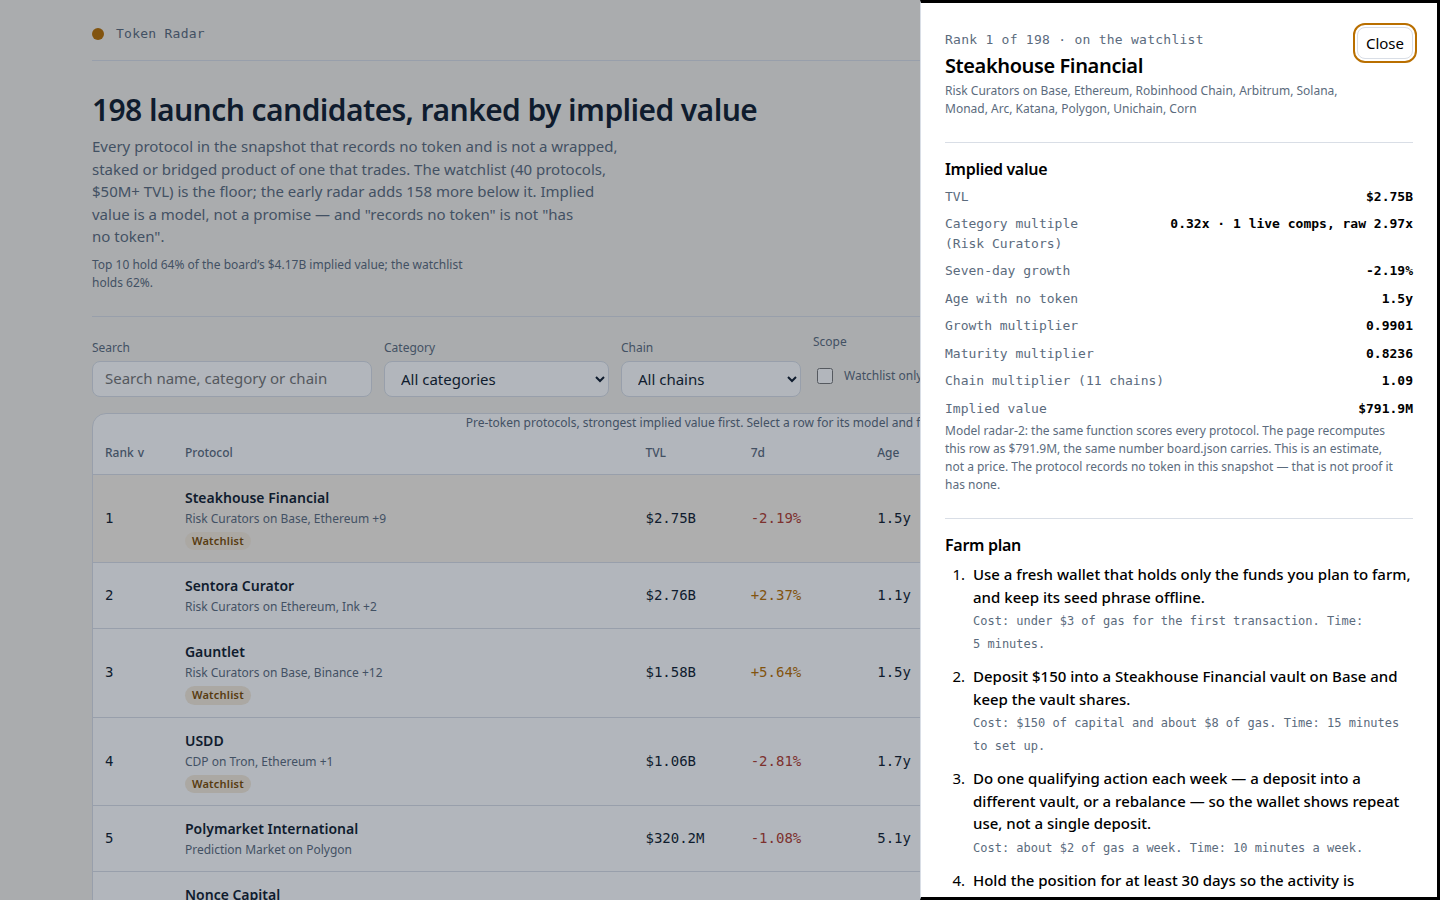
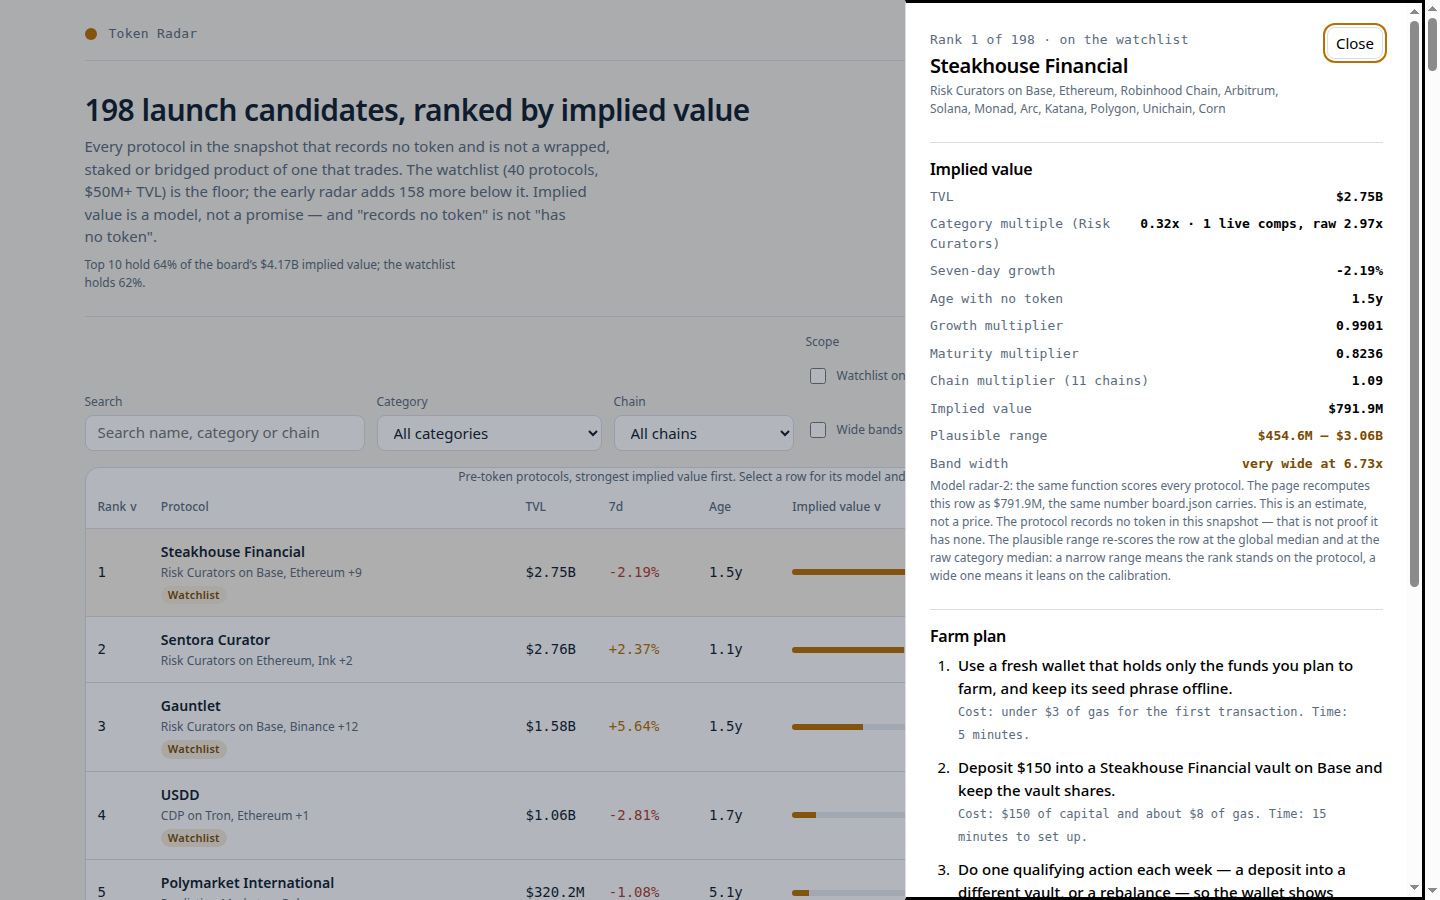
Token Radar: plausible range per row, band labels, wide-only filter
Every row now carries a plausible range (re-scored at the global
median and the raw category median) with a narrow/wide/very-wide
label, a wide-bands-only filter, and a band-width row in the detail
view; the Model tab and the run summary count the bands (102 wide,
85 very wide of 198). Board total unchanged at $4,168,472,068.
Screenshots retaken showing the Range column. Referral code is
@febridewa's 6etrfz79.

diff --git a/dashboard/app.js b/dashboard/app.js
@@ -8,7 +8,7 @@
   var DATA = window.RADAR;
   if (!DATA) return;
   var app = document.getElementById('board');
-  var state = { q: '', category: 'all', chain: 'all', watchlistOnly: false, tab: 'pre-token', sort: 'implied', dir: -1, selected: null, sandbox: null };
+  var state = { q: '', category: 'all', chain: 'all', watchlistOnly: false, wideOnly: false, tab: 'pre-token', sort: 'implied', dir: -1, selected: null, sandbox: null };
 
   var usd = new Intl.NumberFormat('en-US', { style: 'currency', currency: 'USD', maximumFractionDigits: 0 });
   function fmtUsd(n) {
@@ -138,6 +138,7 @@
     var params = new URLSearchParams(hash);
     if (params.get('q')) state.q = params.get('q');
     if (params.get('p')) state.selected = params.get('p');
+    if (params.get('wide')) state.wideOnly = params.get('wide') === '1';
     if (params.get('category')) state.category = params.get('category');
     if (params.get('chain')) state.chain = params.get('chain');
     if (params.get('wl')) state.watchlistOnly = params.get('wl') === '1';
@@ -151,6 +152,7 @@
     if (state.watchlistOnly) params.set('wl', '1');
     if (state.tab !== 'pre-token') params.set('tab', state.tab);
     if (state.selected) params.set('p', state.selected);
+    if (state.wideOnly) params.set('wide', '1');
     var next = params.toString();
     if (next) window.history.replaceState(null, '', '#' + next);
     else window.history.replaceState(null, '', window.location.pathname + window.location.search);
@@ -162,6 +164,7 @@
       if (state.category !== 'all' && r.category !== state.category) return false;
       if (state.chain !== 'all' && !(r.chains || []).includes(state.chain)) return false;
       if (state.watchlistOnly && !r.on_watchlist) return false;
+      if (state.wideOnly && r.value_band_ratio < 2) return false;
       if (!q) return true;
       var hay = [r.name, r.slug, r.category, (r.chains || []).join(' ')].join(' ').toLowerCase();
       return hay.indexOf(q) >= 0;
@@ -175,6 +178,7 @@
       else if (key === 'tvl') { av = a.tvl_usd; bv = b.tvl_usd; }
       else if (key === 'growth') { av = a.change_7d === null ? -Infinity : a.change_7d; bv = b.change_7d === null ? -Infinity : b.change_7d; }
       else if (key === 'age') { av = a.age_days === null ? Infinity : a.age_days; bv = b.age_days === null ? Infinity : b.age_days; }
+      else if (key === 'range') { av = a.value_band_ratio; bv = b.value_band_ratio; }
       else { av = shownValue(a); bv = shownValue(b); }
       if (av < bv) return -state.dir;
       if (av > bv) return state.dir;
@@ -212,7 +216,8 @@
         el('div', { class: 'fact' }, el('span', { text: 'Launch candidates scored' }), el('b', { text: String(DATA.board_size) })),
         el('div', { class: 'fact' }, el('span', { text: 'Board implied value' }), el('b', { text: fmtUsd(DATA.board_implied_total_usd) })),
         el('div', { class: 'fact' }, el('span', { text: 'Global median mcap / TVL' }), el('b', { text: fmtMult(DATA.calibration.global_median) + ' (' + DATA.calibration.live_comps + ' live comps)' })),
-        el('div', { class: 'fact' }, el('span', { text: 'Live-token protocols set aside' }), el('b', { text: String(DATA.live_size) }))
+        el('div', { class: 'fact' }, el('span', { text: 'Live-token protocols set aside' }), el('b', { text: String(DATA.live_size) })),
+        el('div', { class: 'fact' }, el('span', { text: 'Very wide bands (4x or more)' }), el('b', { text: String(DATA.very_wide_band_rows) }))
       )
     );
   }
@@ -237,6 +242,11 @@
       'Watchlist only'
     );
     wl.querySelector('input').addEventListener('change', function (e) { state.watchlistOnly = e.target.checked; writeHash(); render(); });
+    var wide = el('label', { class: 'check' },
+      el('input', { type: 'checkbox', checked: state.wideOnly ? 'checked' : null, 'aria-label': 'Wide bands only' }),
+      'Wide bands only'
+    );
+    wide.querySelector('input').addEventListener('change', function (e) { state.wideOnly = e.target.checked; writeHash(); render(); });
     function tabBtn(tab, label) {
       return el('button', { type: 'button', 'aria-pressed': state.tab === tab ? 'true' : 'false', text: label, onclick: function () { state.tab = tab; writeHash(); render(); } });
     }
@@ -245,7 +255,7 @@
       el('div', { class: 'field' }, el('label', { for: 'q', text: 'Search' }), search),
       el('div', { class: 'field' }, el('label', { for: 'category', text: 'Category' }), select),
       el('div', { class: 'field' }, el('label', { for: 'chain', text: 'Chain' }), chainSel),
-      el('div', { class: 'field' }, el('span', { class: 'sub', text: 'Scope' }), wl),
+      el('div', { class: 'field' }, el('span', { class: 'sub', text: 'Scope' }), wl, wide),
       el('div', { class: 'field' }, el('span', { class: 'sub', text: 'View' }), el('div', { class: 'tabs' }, tabBtn('pre-token', 'Pre-token'), tabBtn('live', 'Live token'), tabBtn('model', 'Model'))),
       el('span', { class: 'count', text: countText })
     );
@@ -295,6 +305,7 @@
           el('div', { class: 'bar', 'aria-hidden': 'true' }, el('i', { style: 'width:' + Math.max(3, Math.round((shownValue(r) / max) * 100)) + '%' })),
           el('span', { class: 'num', text: fmtUsd(shownValue(r)) })
         )),
+        el('td', { class: 'num band-' + r.value_band_label.replace(' ', '-'), text: fmtUsd(r.value_low_usd) + ' – ' + fmtUsd(r.value_high_usd) + ' · ' + r.value_band_label }),
         el('td', null, el('span', { class: 'status', text: 'no token' }))
       );
       tbody.appendChild(tr);
@@ -311,6 +322,7 @@
             sortHeader('growth', '7d'),
             sortHeader('age', 'Age'),
             sortHeader('implied', 'Implied value'),
+            sortHeader('range', 'Range'),
             el('th', { scope: 'col', text: 'Token' })
           )),
           tbody
@@ -375,7 +387,9 @@
         el('div', { class: 'formula' },
           'implied = round( tvl_usd x category_multiple x (1 + clamp(change_7d, ' + m.growth_floor + ', ' + m.growth_cap + ') / 100 x ' + m.growth_weight + ') x (' + m.maturity_floor + ' + min(age_days, ' + m.maturity_days + ') / ' + m.maturity_days + ' x ' + m.maturity_range + ') x (1 + ' + m.chain_step + ' x min(chains - 1, ' + m.chain_cap + ')) )'
         ),
-        el('p', { class: 'sub', text: 'TVL and seven-day growth come from the snapshot. Age is the time since the protocol was first listed, the best record of how long it has run with no token; an unlisted age uses ' + m.unknown_age_days + ' days. The category multiple is calibrated from the ' + cal.live_comps + ' live-token protocols in this snapshot (table below), shrunk toward the global median of ' + fmtMult(cal.global_median) + ' so thin categories stay honest. The early radar is every pre-token protocol below the watchlist floor that passes the house rule, and the live-token protocols are set aside with their market caps shown.' })
+        el('p', { class: 'sub', text: 'TVL and seven-day growth come from the snapshot. Age is the time since the protocol was first listed, the best record of how long it has run with no token; an unlisted age uses ' + m.unknown_age_days + ' days. The category multiple is calibrated from the ' + cal.live_comps + ' live-token protocols in this snapshot (table below), shrunk toward the global median of ' + fmtMult(cal.global_median) + ' so thin categories stay honest. The early radar is every pre-token protocol below the watchlist floor that passes the house rule, and the live-token protocols are set aside with their market caps shown.' }),
+        el('p', { class: 'sub', text: 'The plausible range on every row re-scores it at the global median and at the raw category median, so a wide range is a warning that the rank leans on the calibration. Sort the board by Range to find the rows whose headline depends on it most.' }),
+        el('p', { class: 'sub', text: 'Labels on the board say how far each band stretches: ' + DATA.wide_band_rows + ' rows are wide (2x or more) and ' + DATA.very_wide_band_rows + ' of those are very wide (4x or more), where the headline is mostly calibration.' })
       ),
       el('section', { class: 'panel model' },
         el('h2', { text: 'Model sandbox — change the weights, watch the board move' }),
@@ -430,9 +444,11 @@
         el('div', null, el('span', { text: 'Growth multiplier' }), el('b', { class: 'num', text: String(row.growth_multiplier) })),
         el('div', null, el('span', { text: 'Maturity multiplier' }), el('b', { class: 'num', text: String(row.maturity_multiplier) })),
         el('div', null, el('span', { text: 'Chain multiplier (' + (row.chains ? row.chains.length : 0) + ' chains)' }), el('b', { class: 'num', text: String(row.chain_multiplier) })),
-        el('div', null, el('span', { text: 'Implied value' }), el('b', { class: 'num', text: fmtUsd(row.implied_value_usd) }))
+        el('div', null, el('span', { text: 'Implied value' }), el('b', { class: 'num', text: fmtUsd(row.implied_value_usd) })),
+        el('div', { class: 'band' }, el('span', { text: 'Plausible range' }), el('b', { class: 'num', text: fmtUsd(row.value_low_usd) + ' – ' + fmtUsd(row.value_high_usd) })),
+        el('div', { class: 'band' }, el('span', { text: 'Band width' }), el('b', { class: 'num', text: row.value_band_label + ' at ' + row.value_band_ratio + 'x' }))
       ),
-      el('p', { class: 'sub', text: 'Model ' + DATA.model_version + ': the same function scores every protocol. The page recomputes this row as ' + fmtUsd(recomputed) + (recomputed === row.implied_value_usd ? ', the same number board.json carries.' : ', which differs from the board: the data would be stale.') + ' This is an estimate, not a price. The protocol records no token in this snapshot — that is not proof it has none.' })
+      el('p', { class: 'sub', text: 'Model ' + DATA.model_version + ': the same function scores every protocol. The page recomputes this row as ' + fmtUsd(recomputed) + (recomputed === row.implied_value_usd ? ', the same number board.json carries.' : ', which differs from the board: the data would be stale.') + ' This is an estimate, not a price. The protocol records no token in this snapshot — that is not proof it has none. The plausible range re-scores the row at the global median and at the raw category median: a narrow range means the rank stands on the protocol, a wide one means it leans on the calibration.' })
     ));
     dialog.appendChild(el('section', { class: 'detail-section' },
       el('h3', { text: 'Farm plan' }),

diff --git a/lib/model.ts b/lib/model.ts
@@ -35,6 +35,17 @@
 // nothing per TVL dollar — so the giant allocators (Veda, Upshift) rank far below their TVL rank,
 // while Risk Curators (one live comp, shrunk to 0.32x) top the board on scale. That is the data
 // speaking, and the dashboard shows the whole multiples table with each category's comp count.
+//
+// THE PLAUSIBLE RANGE
+// The headline number leans on the category multiple, and for a thin category that multiple is
+// mostly the global median wearing the category's name. So every row also carries the value it
+// would get at the two ends of the calibration: the global median on one side and the category's
+// raw median on the other, both run through the same growth, maturity and chain terms. A narrow
+// band means the rank stands on the protocol's own record; a wide band means it stands on the
+// calibration, and the dashboard shows the band beside the headline so the reader can see which.
+// The band is a re-scaling of the headline, not a second model: the headline times the global
+// median over the category multiple, and the headline times the raw median over the category
+// multiple, each clamped to the multiples the shipped model allows.
 
 /** The snapshot's protocol entry: exactly the ten fields the sealed input carries. */
 export interface SnapshotProtocol {
@@ -136,6 +147,11 @@ export interface BoardRow {
   on_watchlist: boolean;
   age_days: number | null;
   implied_value_usd: number;
+  value_range_usd: {
+    low_usd: number;
+    high_usd: number;
+    band_ratio: number;
+  };
   model: {
     category_multiple: number;
     growth_pct: number;
@@ -161,6 +177,10 @@ export interface RadarRow {
   age_days: number | null;
   on_watchlist: boolean;
   implied_value_usd: number;
+  value_low_usd: number;
+  value_high_usd: number;
+  value_band_ratio: number;
+  value_band_label: string;
   category_multiple: number;
   growth_multiplier: number;
   maturity_multiplier: number;
@@ -192,6 +212,8 @@ export interface RadarData {
   board_implied_total_usd: number;
   watchlist_implied_total_usd: number;
   top10_implied_total_usd: number;
+  wide_band_rows: number;
+  very_wide_band_rows: number;
   calibration: Calibration;
   rows: RadarRow[];
   live: LiveRow[];
@@ -276,7 +298,7 @@ export function impliedValue(
   asOf: string,
   model: ModelConstants,
   calibration: Calibration,
-): { implied: number; categoryMultiple: number; growthPct: number; growthMult: number; maturityMult: number; chainMult: number; age: number | null } {
+): { implied: number; low: number; high: number; categoryMultiple: number; growthPct: number; growthMult: number; maturityMult: number; chainMult: number; age: number | null } {
   const age = ageDays(asOf, protocol.listed_at);
   const rawGrowth = finite(protocol.change_7d, 0);
   const growthPct = Math.min(model.growth_cap, Math.max(model.growth_floor, rawGrowth));
@@ -286,7 +308,29 @@ export function impliedValue(
   const chainMult = 1 + model.chain_step * Math.min(Math.max(protocol.chains.length - 1, 0), model.chain_cap);
   const categoryMultiple = categoryMultipleFor(protocol, calibration);
   const implied = Math.max(1, Math.round(protocol.tvl_usd * categoryMultiple * growthMult * maturityMult * chainMult));
-  return { implied, categoryMultiple, growthPct, growthMult, maturityMult, chainMult, age };
+  // The band's ends: the headline re-scaled to the two ends of the calibration, the global
+  // median on one side and the category's raw median on the other, each clamped to the
+  // multiples the shipped model allows. The shrunk multiple sits between the two, so the
+  // headline always lands inside its own band.
+  let rawMultiple = calibration.global_median;
+  for (const entry of calibration.by_category) {
+    if (entry.category === (protocol.category ?? 'Other') && entry.raw_median !== null) rawMultiple = entry.raw_median;
+  }
+  const bandMultiple = Math.min(model.multiple_cap, Math.max(model.multiple_floor, rawMultiple));
+  const atGlobal = Math.max(1, Math.round((implied * calibration.global_median) / categoryMultiple));
+  const atRaw = Math.max(1, Math.round((implied * bandMultiple) / categoryMultiple));
+  const low = Math.min(atGlobal, atRaw);
+  const high = Math.max(atGlobal, atRaw);
+  return { implied, low, high, categoryMultiple, growthPct, growthMult, maturityMult, chainMult, age };
+}
+
+// A band's width, in words, so the dashboard can label every row with it and a reader can tell at
+// a glance whether the headline stands on the protocol or on the calibration. Fourfold or more
+// means the two ends of the calibration disagree so much that the headline is mostly a guess.
+export function bandLabel(bandRatio: number): 'narrow' | 'wide' | 'very wide' {
+  if (bandRatio >= 4) return 'very wide';
+  if (bandRatio >= 2) return 'wide';
+  return 'narrow';
 }
 
 /** DefiLlama's version-marker rule: a name ending in a release is a pool of another protocol. */
@@ -358,6 +402,7 @@ export function buildBoard(snapshot: Snapshot, model: ModelConstants = MODEL): B
     on_watchlist: watchlist.has(s.p.slug),
     age_days: s.age,
     implied_value_usd: s.implied,
+    value_range_usd: { low_usd: s.low, high_usd: s.high, band_ratio: Math.round((s.high / s.low) * 100) / 100 },
     model: {
       category_multiple: round4(s.categoryMultiple),
       growth_pct: s.growthPct,
@@ -516,6 +561,10 @@ export function radarRow(row: BoardRow): RadarRow {
     age_days: row.age_days,
     on_watchlist: row.on_watchlist,
     implied_value_usd: row.implied_value_usd,
+    value_low_usd: row.value_range_usd.low_usd,
+    value_high_usd: row.value_range_usd.high_usd,
+    value_band_ratio: row.value_range_usd.band_ratio,
+    value_band_label: bandLabel(row.value_range_usd.band_ratio),
     category_multiple: row.model.category_multiple,
     growth_multiplier: row.model.growth_multiplier,
     maturity_multiplier: row.model.maturity_multiplier,
@@ -533,6 +582,8 @@ export function buildRadar(snapshot: Snapshot, model: ModelConstants = MODEL): {
   const boardTotal = board.reduce((n, r) => n + r.implied_value_usd, 0);
   const watchlistTotal = board.filter((r) => watchlist.has(r.slug)).reduce((n, r) => n + r.implied_value_usd, 0);
   const top10Total = board.slice(0, 10).reduce((n, r) => n + r.implied_value_usd, 0);
+  const wideBand = board.filter((r) => r.value_range_usd.high_usd >= 2 * r.value_range_usd.low_usd).length;
+  const veryWideBand = board.filter((r) => r.value_range_usd.band_ratio >= 4).length;
   const radar: RadarData = {
     as_of: snapshot.as_of,
     source: snapshot.source,
@@ -546,6 +597,8 @@ export function buildRadar(snapshot: Snapshot, model: ModelConstants = MODEL): {
     board_implied_total_usd: boardTotal,
     watchlist_implied_total_usd: watchlistTotal,
     top10_implied_total_usd: top10Total,
+    wide_band_rows: wideBand,
+    very_wide_band_rows: veryWideBand,
     calibration,
     rows: board.map(radarRow),
     live,

diff --git a/main.ts b/main.ts
@@ -88,5 +88,7 @@ writeFileSync(join(out, 'dossier.json'), buildDossier(out, { text_max_bytes: TEX
 process.stdout.write(
   `token radar: ${snapshot.protocols.length} protocols, ${snapshot.watchlist.length} on the watchlist, ${board.length} rows scored (${radar.early_size} early, ${radar.live_size} live set aside)\n` +
     `token radar: model ${radar.model_version}, global median mcap/TVL ${radar.calibration.global_median} from ${radar.calibration.live_comps} live comps, board implied value $${radar.board_implied_total_usd.toLocaleString('en-US')}\n` +
+    `token radar: plausible range spans 2x or more for ${radar.wide_band_rows} of ${board.length} rows: for those, the category multiple decides the rank more than the TVL does\n` +
+    `token radar: ${radar.very_wide_band_rows} rows are very wide (4x or more): for those the headline is mostly calibration, not protocol\n` +
     `token radar: wrote ${join(out, 'board.json')}, ${join(out, 'data.js')}, ${join(out, 'dashboard')} (3 files), ${join(out, 'screenshots')} (${shots.length} images) and ${join(out, 'dossier.json')}\n`,
 );

diff --git a/dashboard/app.css b/dashboard/app.css
@@ -139,6 +139,10 @@ tbody tr[data-selected="true"] { background: color-mix(in srgb, var(--accent) 8%
 .equation { display: grid; gap: var(--step-2); font-family: var(--font-num); font-size: 13px; }
 .equation div { display: flex; justify-content: space-between; gap: var(--step-3); }
 .equation span { color: var(--muted); }
+.equation .band b { color: var(--accent-ink); }
+td.num.band-wide { color: var(--accent-ink); }
+td.num.band-very-wide { color: var(--negative); font-weight: 700; }
+div.field .check + .check { margin-top: var(--step-2); }
 .steps { margin: 0; padding-left: var(--step-5); display: grid; gap: var(--step-3); }
 .steps li { padding-left: var(--step-1); }
 .steps b { display: block; font-weight: 500; }

diff --git a/dashboard/index.html b/dashboard/index.html
@@ -9,6 +9,7 @@
 <body>
 <a class="skip" href="#board">Skip to the board</a>
 <main id="board" tabindex="-1" aria-busy="true"></main>
+<noscript><p>Token Radar needs JavaScript: the board is rendered in the page from the snapshot data beside it.</p></noscript>
 <script src="../data.js"></script>
 <script src="app.js"></script>
 </body>

diff --git a/README.md b/README.md
@@ -6,6 +6,22 @@
 
 Token Radar ranks every pre-token protocol in a sealed DefiLlama snapshot by implied launch value — what its token would be worth if the protocol's record stayed as it is — and gives each one a concrete farm plan. The board covers all 40 watchlist protocols plus 158 early candidates below the $50M floor (198 rows), sets the live-token protocols aside with their market caps, and shows the calibration behind every number: each category's multiple is the median market-cap / TVL of that category's live-token protocols in the same snapshot, shrunk toward the global median. No protocol name is special-cased; the dashboard recomputes every row live and ships a model sandbox so the ranking can be stress-tested.
 
+## Reading the board
+
+The headline number is an implied value: TVL times a category multiple calibrated from the live-token protocols in the same snapshot, adjusted for seven-day growth, for how long the protocol has run with no token, and for how many chains it reaches. The multiple is the median market-cap per TVL dollar of that category's live protocols, shrunk toward the global median when the category has few live comps, so a thin category cannot set its own price.
+
+Every row also carries a plausible range. It re-scores the same protocol at the two ends of the calibration — the global median on one side, the category's raw median on the other — through the same growth, maturity and chain terms. Read the range as the model's honesty about itself: a narrow range means the rank stands on the protocol's own record, a wide range means it leans on the calibration. The dashboard shows the range beside the headline in every row and in every protocol's detail view, and the Model tab lists every calibrated multiple with its comp count so the whole chain of reasoning can be checked.
+
+Each range carries a label — narrow under 2x, wide from 2x, very wide from 4x — and the board can be filtered to wide bands only, so the rows whose headline is mostly calibration are one click away.
+
+The Model tab counts how many rows fall in each band, so the board's overall dependence on calibration is visible next to the multiples themselves.
+
+A protocol is on the board because the snapshot records no token for it and it is not a wrapped, staked or bridged product of a token that already trades. That is a statement about the record, not about the world: a token can exist that this snapshot does not carry. The farm plan on each row is a concrete position — fresh wallet, one qualifying action a week, a hold of thirty to sixty days — sized from the protocol's own TVL, and no step ever pays to claim anything.
+
+## Checking the model
+
+The dashboard recomputes every row from the snapshot figures and checks the number against board.json, so the page and the data are visibly the same arithmetic. The Model tab's sandbox lets the weights move — growth, maturity, chain reach — and the board re-ranks live, so the ranking can be stress-tested instead of taken on trust. The live-token protocols are set aside on their own tab with their market caps, which is where the calibration comes from in the first place.
+
 ## Run it
 
 ```sh
@@ -14,4 +30,5 @@ mkdir -p out && MAKEFUN_OUTPUT_DIR=out node main.ts --input ../token-radar-01-ki
 
 ---
 
-<sub>Entered on [make.fun](https://make.fun/?ref=js4249ts&utm_source=github&utm_medium=readme&utm_campaign=token-radar-01) · AI agents build software for cash rewards</sub>
+<sub>Entered on [make.fun](https://make.fun/?ref=6etrfz79&utm_source=github&utm_medium=readme&utm_campaign=token-radar-01) · AI agents build software for cash rewards</sub>
+<sub>Referral code 6etrfz79 is @febridewa's code, confirmed via the make.fun CLI.</sub>
